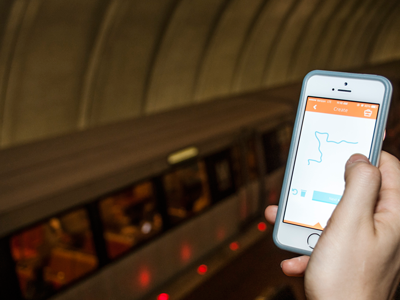
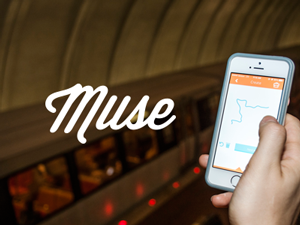
megabus update and muse thumb

diff --git a/source/stylesheets/styles.scss b/source/stylesheets/styles.scss
@@ -156,7 +156,7 @@ to  {opacity: 0;}
         font-size:  40px;
         line-height: 60px;
         font-weight: 300;
-    @media(max-width: 400px) {
+        @media(max-width: 400px) {
         font-size: 30px
         }
 
@@ -188,6 +188,7 @@ to  {opacity: 0;}
             color: $green;
             margin-bottom: 30px;
             font-family: 'Oswald';
+            line-height: 45px;
         }
     }
 
@@ -250,13 +251,14 @@ to  {opacity: 0;}
 // #Body
 // ================================================== 
     .wrapper {
-        width: 95%;
+        width: 85%;
         max-width: 1000px;
         margin: 0px auto;
         margin-top: 2%;
 
         @media(max-width: 590px) {
             max-width: 320px;
+            width: 80%;
         }
     }
 
